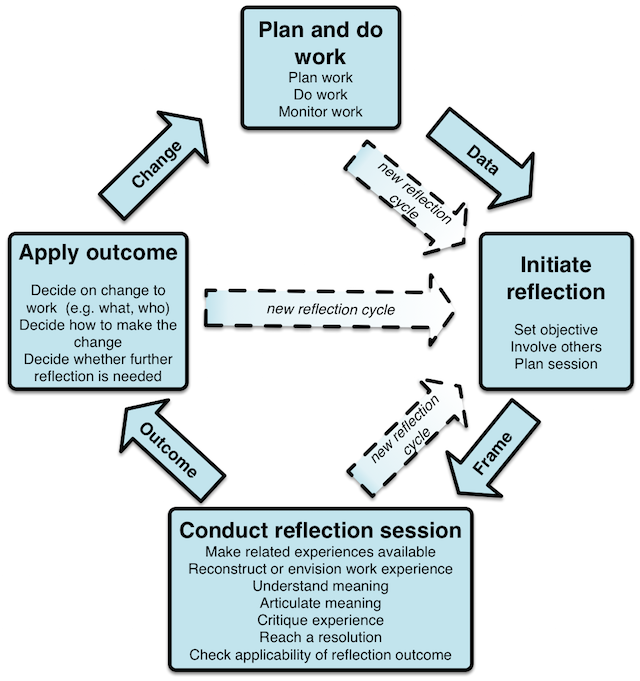
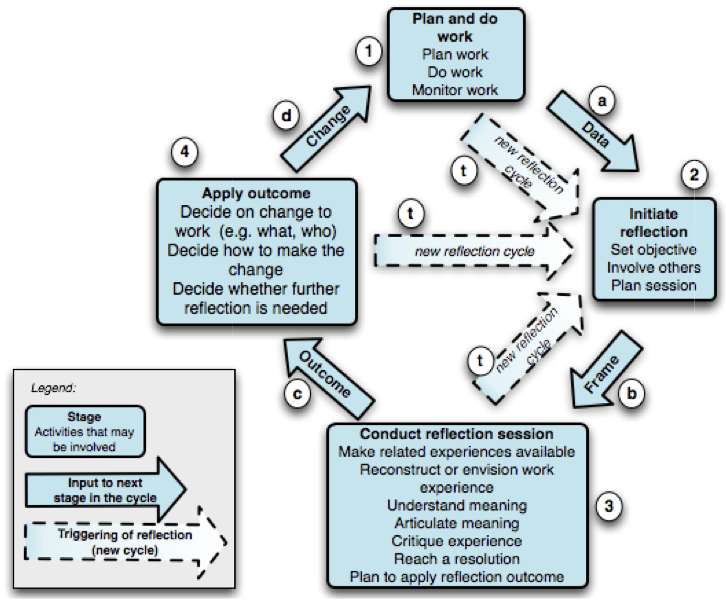
added research chap

diff --git a/csrl.md b/csrl.md
@@ -1,50 +1,50 @@
 
 # Computer Supported Reflective Learning
 
-In order to inform the design of technology to support reflection tools for crisis learning, I employed the Computer Supported Reflective Learning model developed within the MIRROR project. The model has indeed been designed to identify requirement, design and implement technology support for to reflective learning [@Krogstie:2013kf]. The CSRL model has worked as theoretical underpinning for the development of the applications presented in this PhD work, providing a language guiding for the understanding of reflection and requirements for supporting technology.
+In order to inform the design of technology to support reflection tools for crisis learning, I employed the Computer Supported Reflective Learning model developed within the MIRROR project. The model has indeed been designed to identify requirement, to design and implement technology support for to reflective learning [@Krogstie:2013kf]. The CSRL model has worked as theoretical underpinning for the development of applications of technology presented in this PhD work, providing a language guiding for the understanding of reflection and requirements for supporting technology.
 
-In this thesis the CSRL model has driven the development of technology application in P1, P2 and P3
+In this thesis the CSRL model has driven the development of technology in P1, P2 and P3.
 
 After a brief introduction about reflection theory I describe the CSRL model and how it has been applied to the development of  technology for crisis experiential learning. In the following I will use the terms *reflective learning* and *reflection* as synonyms.
 
 ## Reflection theory
 
-Boud [-@boud1985reflection] defines reflective learning as “*a generic term for those intellectual and affective activities in which individuals [...] explore their experiences in order to lead to new understandings and appreciations*”, it is both an individual and collective mental process that turns past experiences into new knowledge. This is also in line with the work of Schön [-@Schon:1983ut] who further distinguish between *reflection-in-action* (or *intra-crisis* in the context of this work) and *reflection-on-action* (*inter-crisis*). Reflection consists in three steps process during which the learner re-evaluate her experiences inspecting behaviours, ideas and feelings; eventually deriving conclusions and lessons learned to that guide future behaviours (Figure x). The process can be iterated multiple times and might influence the learner behaviours only in the long term. 
+Boud [-@boud1985reflection] defines reflective learning as “a generic term for those intellectual and affective activities in which individuals [...] explore their experiences in order to lead to new understandings and appreciations”, it is both an individual and collective mental process that turns past experiences into new knowledge. This is also in line with the work of Schön [-@Schon:1983ut] who further distinguish between *reflection-in-action* (or *intra-crisis* in the context of this work) and *reflection-on-action* (*inter-crisis*). Reflection consists in a three-steps process during which the learner re-evaluate her experiences inspecting behaviours, ideas and feelings; eventually deriving conclusions and lessons learned to that guide future behaviours (Figure x). The process can be iterated multiple times and might influence the learner behaviours only in the long term. 
 
 ![The reflection process according with Boud [-@boud1985reflection]](imgs/boud.png)
 
-A key aspect in making a reflective process to happen is the presence of triggers. Triggers are unexpected situations, for example disturbances and perception of uncertainty; but also positive situation like a surprising success. In general, reflection seems to be triggered by awareness of discrepancy between expectations and the current experience. Reflection might be triggered by an external event or agent (external trigger/accident) or might develop from one’s own thinking of a whole series of occurrences over time (internal trigger). Reflection can occur incidentally or intentionally, but is widely acknowledged that in both cases reflection is a conscious evaluation of an experience. Furthermore people can learn not only from their own experiences, but also from other’s experience by directly or indirectly (for example by observing and reflecting on other’s experiences). 
+A key aspect in making a reflective process to happen is the presence of triggers. Triggers are unexpected situations, for example disturbances and perception of uncertainty; but also positive situation like a surprising success. In general, reflection seems to be triggered by awareness of discrepancy between expectations and the current experience. Reflection might be triggered by an external event or agent (external trigger/accident) or might develop from one’s own thinking of a whole series of occurrences over time (internal trigger). Reflection can occur incidentally or intentionally, but in both cases reflection is a conscious evaluation of an experience. Furthermore people can learn not only from their own experiences, but also from other’s experience by directly or indirectly (for example by observing and reflecting on other’s experiences). 
 
 Similar to the work of Boud, Kolb describes experiential learning as a cyclic process named “the Kolb Cycle” (Figure x). 
 
 ![The Kolb cycle](imgs/kolb.png)
 
-According with Kolb [-@kolb1984experiential] reflection is a process that involves not only reinterpreting existing experiences, but also initial perception and interpretation of the raw experience. A description of other existing theories can be found in [@WoodDaudelin199636].
+According with Kolb [-@kolb1984experiential] reflection is a process that involves not only reinterpreting existing experiences, but also initial perception and interpretation of the raw experience. For a description of other existing theories in reflective learning see [@WoodDaudelin199636].
 
 ## MIRROR Computer Supported Reflective Learning model
 
 Building on the presented work on reflection theory and on empirical studies, the MIRROR project has iteratively developed a model for Computer Supported Reflective Learning (hereafter CSRL model for short). The CSRL model has been designed to identify requirement, design and implement technology support for reflective learning and is detailed in [@Krogstie:2013kf]. It is meant to understand and analyse reflection in the workplace, it suggests how technology can support those activity rather than providing formal guidelines or pre-defined processes.  
 
-Following the work of Boud et al. [-@boud1985reflection] the model considers reflective learning as “*the conscious re-evaluation of experience for the purposes of guiding future behaviour […] as reflection transforms experience from work into knowledge applicable to the challenges of daily work*” [@Krogstie:fo]. The model specifically address reflection in the workplace with *work* and *reflection on action* seen as intertwined activities that have an impact on personal, collaborative and organisational growth. Therefore the model is well suited to address reflection in the crisis domain which in which unexpected adverse events do not allow to schedule clear boundaries between the time to be dedicated to work and to learning.  
+Following the work of Boud et al. [-@boud1985reflection] the model considers reflective learning as “the conscious re-evaluation of experience for the purposes of guiding future behaviour […] as reflection transforms experience from work into knowledge applicable to the challenges of daily work” [@Krogstie:fo]. The model specifically addresses reflection in the workplace with *work* and *reflection on action* seen as intertwined activities that have an impact on personal, collaborative and organisational growth. Therefore the model is well suited to address reflection in the crisis domain which in which unexpected adverse events do not allow to schedule clear boundaries between the time to be dedicated to work and to learning.  
 
-A *reflection section* is a time-limited in which reflection happens; driven by *learning objectives* that might be only partially explicated, leaving rooms for a open-ended *outcome*. Such outcome may include a change in behaviour, new perspectives and commitment for action [@boud1985reflection]. *Participants* of the session might be a single person (individual reflection) or multiple persons (collaborative reflection).
+![CSRL reflection cycle, figure from [@Krogstie:2013kf]](imgs/CSRL.png)
+
+According with the model, a *reflection section* is a time-limited in which reflection happens; driven by *learning objectives* that might be only partially explicated, leaving rooms for a open-ended *outcome*. Such outcome may include a change in behaviour, new perspectives and commitment for action [@boud1985reflection]. *Participants* of the session might be a single person (individual reflection) or multiple persons (collaborative reflection).
 
 The model explains reflective learning as a **cycle** involving fours stages of reflection: (i) do work; (ii) initiate reflection session; (iii) conduct reflection session; and (iv) apply reflection outcomes. For each stage, it specifies relevant sub-steps, specific reflection-useful activities that can be augmented with technology. For example, initiate reflection session includes *decide to reflect* and *frame the reflection session*. 
 
-For each stage, the CSRL model identifies support that can be provided through technology, for example in the do work phase, technology can be used to monitor work and collect data that can be useful for reflection, in initiate reflection session technology can be used to set the objectives for reflection or involve others in the session; in conduct reflection session to share work experiences with others; and in apply reflection outcomes to decide how the change to work will be implemented.
-
-![CSRL reflection cycle, photo from [@Krogstie:2013kf]](imgs/CSRL.png)
-
 Figure x depicts the models in terms of *stages*, *inputs* and *triggers*.  A *stage* includes sub-activities that can be supported with technology, *inputs* are either raw or more or less contextualised data (information) being exchanged among stages; *triggers* are either external events or internal mental processes that initiate a reflection session. Reflection can be triggered during work, while a change is about to be applied or during the reflection session itself. In general, reflection seems to be triggered by awareness of discrepancy between expectations and the current experience. Triggers also allow for including more actors in the reflection cycles, when one reflection cycle triggers new reflection cycles. For instance, the outcome of a personal reflection (e.g. how a crisis procedure is applied) might be brought in a team meeting to trigger collaborative reflection on bring to a change of protocol outcome. In this way, we can look at reflection as a storyline that might involve different actors within the organisation [@PrPK13]. 
+
+For each stage, the CSRL model identifies support that can be provided through technology, for example in the *do work* phase, technology can be used to monitor work and collect data that can be useful for reflection, in *initiate reflection*  technology can be used to set the objectives for reflection or involve others in the session; in *conduct reflection* session to share work experiences with others; and in *apply reflection outcomes* to decide how the change to work will be implemented.
 
 ## CSRL applied to the design of technology
 
 The model can be used by designers to choose which technology to use to support reflection activities or do derive requirements for the design of new technologies [@Krogstie:2013kf]. The model has driven the development of several software and hardware applications within the MIRROR project; to address reflective learning in the fields of social care, health care, business and emergency aid. For a description of the applications see [@Schwantzer:2014we]. Several works [@Krogstie:2013kf; @Krogstie:fo; @Krogstie:2012ki] have shown how the four stages in the model can me mapped against technologies to support individual and collaborative reflection. The mapping can be framed within three macro areas:
   
 - technology to **capture** work experiences (for example by means of automatic sensors, a personal diary application, or timeline visualisation) 
-- technology to **trigger** a reflection session leveraging data captured (for example reminding the user to reflect on a daily basis) 
-- technology to **re-create** work experiences based on data captured to assist a reflection session with relevant information (for example by allowing to re-evaluate a past experiences from multiple point of views) 
+- technology to **re-create** work experiences based on data captured to trigger and assist a reflection session with relevant information (for example by allowing to re-evaluate a past experiences from multiple point of views, in a context that help making sense processes) 
+- technology to **generate** new, realistic work experiences for training purposes (for example via virtual worlds, serious games, or tabletop exercises)  
 
-The three areas have in common the need for interfaces between people and technology. The design of such user interfaces aims at different goals: while during *capturing* the interface need to allow to capture both automatic data and user-submitted information without interrupting crisis work, *triggering* reflection needs and interface which is stimulating for the user; finally *re-creating* experiences need for tools for data visualisation and manipulation capable to re-create a work experience in a context that helps making senses processes thus reflection. 
+The three areas have in common the need for interfaces between people and technology. The design of such user interfaces aims at different goals: while during *capturing* the interface need to allow to capture both automatic data and user-submitted information without interrupting crisis work, *re-creating* experiences need for tools for data visualisation and manipulation capable to re-create a work experience in a context that promote reflection; finally *generating* experiences needs interface to bring realism and engagement or real crises into a simulated environment.  
   
-In the following chapter I will investigate how recent advances in the field of tangible, embodied and embedded interaction can provide theoretical tools and rapid prototyping techniques for the creation of user interfaces for capturing and re-creating work experiences and triggering reflection. 
+In the following chapter I will investigate how recent advances in the field of tangible, embodied and embedded interaction can provide theoretical tools from human-computer interaction theory and rapid prototyping techniques for the creation of user interfaces for capturing, re-creating and generating experiences.

diff --git a/crisis.md b/crisis.md
@@ -6,11 +6,14 @@ In this section, I provide a brief introduction to the field of crisis managemen
 
 The terms *crisis*, *emergency* and *disaster* are often used as synonyms. As pointed out by [@Boin:2007wt] and [@hewit] they deal with events that belong in the “un-ness” category: unexpected, undesirable, unimaginable, and often unmanageable situations. 
 
-We can refer to *crisis* as an event that is expected to lead to a dangerous situation, whether it’s an emergency or a disaster. While an *emergency* is a episode that requires immediate attention, but usually on a small scale, it can turn in a *disaster* if left unattended. For example high rainfall could lead to several emergencies (e.g. car crashes, flooded bridges) and might eventually turn in a disaster (e.g. a massive flooding or an hurricane). Disaster can be caused by nature or human-made and show or not show early signals that allow the disaster to be avoided. Over the last 35 years, the frequency of disasters has increased five-fold and the damage caused has multiplied by approximately eight times [@union:Mz-lFgLc]. 
+We can refer to *crisis* as an event that is expected to lead to a dangerous situation, whether it’s an emergency or a disaster. While an *emergency* is a episode that requires immediate attention, but usually on a small scale, it can turn in a *disaster* if left unattended. For example high rainfall could lead to several emergencies (e.g. car crashes, flooded bridges) and might eventually turn in a disaster (e.g. a massive flooding or an hurricane). Disaster can be caused by nature or human-made and show or not show early signals that allow the disaster to be avoided. Over the last 35 years, the frequency of disasters has increased five-fold and the damage caused has multiplied by approximately eight times [^eudisaster].
 
-Yet, although disasters are getting more frequent, people’s capacity of dealing with adverse events is also growing [@Boin:2009bv] and this is thanks to the advances in crisis preparedness and management, which are a priority for many countries, including the European ones [@union:Mz-lFgLc].   
+[^eudisaster]: “Council adopts new Union Civil Protection
+Mechanism” Available at: www.consilium.europa.eu/uedocs/cmsdata/docs/pressdata/en/jha/140108.pdf.
 
-Crisis management is a complex, inter-organisational activity to provide help to the persons in need during a crisis. Examples of roles and activities typical of crisis management are police forces to constrain access to a disaster scene, firefighters to explore and map undisclosed areas, paramedics to activate triage and hospitalise injured, fellow citizen to report information and stay out of dangers. Crisis management requires coordination on multiple levels, from team leaders (intra-organisation) up to disaster managers (inter-organisation).    
+Yet, although disasters are getting more frequent, people’s capacity of dealing with adverse events is also growing [@Boin:2009bv] and this is thanks to the advances in crisis preparedness and management, which are a priority for many countries, including the European ones [^eudisaster].   
+
+Crisis management is a complex, inter-organisational activity to provide help to the persons in need during crises. Examples of roles and activities typical of crisis management are police forces to constrain access to a disaster scene, firefighters to explore and map undisclosed areas, paramedics to activate triage and hospitalise injured, fellow citizen to report information and stay out of dangers. Crisis management requires coordination on multiple levels, from team leaders (intra-organisation) up to disaster managers (inter-organisation).    
 
 Meanwhile crisis management is activated only when a crisis occurs, crisis preparedness is a continuos process aiming at improving crisis management practices using training activities to induce learning outcomes. Crisis-induced learning (hereafter crisis learning) focuses on two main activities, both essential for organisational resilience: *prevention* and *response* [@Deverell:2009fk], in order to
 (i) prevent a crisis from happening, ~~with risk mitigation activities, monitoring the environment and raising awareness in the population~~
@@ -26,11 +29,9 @@ Learning by experience and lesson drawing are still quite unexplored areas of cr
 
 ### Learning by experience
 
-Experiences from real and simulated crises can be used as triggers to achieve organisational learning [@Deverell:2009fk]. Organisational learning may occur “when experience systematically alter behaviour or knowledge” [@Schwab:2007iw, p.233]; as an effort to gain knowledge from the past (e.g. an earlier crisis exercise) and use it when managing a new crisis, to correct previous mistakes [@Larsson:2010jr]. As stated by Hillyard [-@Hillyard:SYlJRQLN], organisational learning is one of the basic objective of crisis management, which is to accumulated wisdom by “learning together from the event in order to prevent, lessen the severity of, or improve upon responses to future crises”.
+Experiences from real and simulated crises can be used as triggers to achieve organisational learning [@Deverell:2009fk]. Organisational learning may occur “when experience systematically alter behaviour or knowledge” [@Schwab:2007iw, p.233]; as an effort to gain knowledge from the past (e.g. an earlier crisis exercise) and use it when managing a new crisis, to correct previous mistakes [@Larsson:2010jr]. As stated by Hillyard [-@Hillyard:SYlJRQLN], organisational learning is one of the basic objective of crisis management, which is to accumulated wisdom by “learning together from the event in order to prevent, lessen the severity of, or improve upon responses to future crises”. In CM the correct action to take often can only be derived from experience. e.g. handling of the events in similar situations.
 
-In CM the correct action to take often can only be derived from experience. e.g. handling of the events in similar situations
-
-Yet, how work experiences during crisis work can produce a learning outcome? And what are those learning outcomes?
+Yet, how work experiences during crises can produce a learning outcome? And what are those learning outcomes?
 
 First off learning from crises is not an easy job. While learning during the work, or *intra-crisis*, is very difficult due to time pressure, stress and demands for rapid action [@Deverell:2009fk] and because learning is typically a retrospective exercise [@jasanoff1994learning]; *inter-crisis* learning is also challenging. Moynihan [-@Moynihan:2008gq] identify ten barriers to effective crisis learning. Among those the high consequentiality of crises makes experiential learning costly [@LaPorte:1991gk], moreover the specificity of each crisis event makes hard to apply learning outcomes from one crisis to another.
 
@@ -38,9 +39,9 @@ Yet crises also offer learning opportunities, “Experience from previous events
 
 ### Debriefing as a tool for learning from experiences		 
 
-In order to turn experiences into knowledge [correct?] debriefing after real or simulated crisis-work offers important learning opportunities [@Boin:2007wt]. Debriefing involves “reviewing a difficult episode from a constructive point of view  … the goal is to extract fundamental lessons learned from the ay the event was handled” [@Lagadec:1997js]. It is a collaborative activity involving multiple roles. 
+In order to turn experiences into knowledge debriefing after real or simulated crisis-work offers important learning opportunities [@Boin:2007wt]. Debriefing involves “reviewing a difficult episode from a constructive point of view  … the goal is to extract fundamental lessons learned from the way the event was handled” [@Lagadec:1997js]. It is a collaborative activity involving multiple roles. 
 
-A outlined by Boud et al. [-@boud1985reflection] debriefing is a form of collaborative reflection.. During debriefings, a re-evaluation of experience takes place, with explicit attention to emotions, ideas and behaviours. 
+A outlined by Boud et al. [-@boud1985reflection] debriefing is a form of collaborative reflection. During debriefings, a re-evaluation of experience takes place, with explicit attention to emotions, ideas and behaviours. 
 
 The outcome which debriefing seeks to obtain is lesson drawing. Previous work experiences provide a good source of lesson-drawing which may potentially affect managing, planning and training for future crises. Yet lessons-drawing is often one of the most neglected aspects of crisis management [@Lagadec:1997js; @Stern:1997eb]. Studies [@Lagadec:1997js] has show that the introduction of debriefings meet resistance. This might be due to lack of commitment but also to barriers like costs, lack of data to feed the debriefing, lack of tools to provide meaningful visualisation or to recreate a work experience. In the following I describe out technology can help in lowering those barriers.
 
@@ -48,4 +49,6 @@ The outcome which debriefing seeks to obtain is lesson drawing. Previous work ex
 
 Technology can provide support to experiential learning in many ways. For example it can be used to capture a work experience, to simulate or re-create a specific crisis, to provide support to coordination, for data collection or to assist debriefings. The common denominator is that technology can add realism to exercises, in order to re-create experiences that are as close as possible to real crisis, and allow trainees to experience emotions (e.g. stress) of a similar nature and intensity as the ones experience under a real emergency [@MacKinnon:2012wz]. Adding realism to the training experience is recognised to be a key for achieving learning outcomes [@Asproth:2013vs].  
 
-In this thesis I focus on using technology for (i) capturing work experiences and (ii) leveraging the captured data to re-create those experiences for debriefing purposes. Being debriefing a form of collaborative reflection [@boud1985reflection] I adopted the MIRROR CSRL model [@Krogstie:2013kf] as a framework to drive the design of computer interfaces and the MIRROR toolbox for evaluation purposes [@Knipfer:2012vi]. 
+In this thesis I focus on using technology to (i) capture work experiences from multiple point of views, (ii) re-create those experiences for debriefing purposes using the data captured, (iii) generated new work experiences for training purposes. In order to ground the design of technology into theory on reflective learning I adopted the MIRROR CSRL model [@Krogstie:2013kf] and the MIRROR toolbox [@Knipfer:2012vi] to evaluate the learning outcomes produced. 
+
+In the next chapter I provide a brief introduction on reflective learning and the model used as theoretical underpinning for the technology contributions of this thesis.

diff --git a/interaction.md b/interaction.md
@@ -1,0 +1,27 @@
+# Sensing-based interaction for supporting reflection
+
+The design of systems to support reflection on crisis work experiences benefits from research in the field of sensing-based interaction [@Benford:2005bo],  as a paradigm to design user interfaces which are embodied [@Fishkin:2000df] and tangible [@Shaer:2009fx]. 
+
+According with Rogers and Muller [-@Rogers:2006te] sensing-based interaction allows for designing systems capable to deliver relevant information at appropriate times, which is critical to trigger and sustain reflection; and to enable “hands-free control”, which is critical for capturing data in action. 
+
+## Sensing and embodied interfaces
+
+Recent advances in sensor technology enable the creation of interfaces that actively respond to users’ behaviours [@Benford:2005bo]. Computation is ubiquitously getting embedded and thus *embodied* in physical interactive objects, allowing the object to become integral part of interaction and using its body as an interface.
+
+Embodied interaction, as defined by Dourish [@Dourish:2001vc], is a collection of a number of recent trends emerged in the Human-Computer interaction (HCI) field, relying on the common ground to provide a natural, native user interaction with information. Embodied interaction makes an enormous shift in the user interaction paradigm. Moving from time to space, it takes the interaction “off the screen” into the real world [@Dourish:2001vc], distributing input in space instead of time, de-sequentializing interaction and reducing the gap between where the information is created where it is accessed. “By treating the body of the device as part of the user interface —an embodied user interface— we can go beyond the manipulation of a GUI and allow the user to really directly manipulate an integrated physical-virtual device.” [@Fishkin:2000df]  
+
+
+Implementations of the embodied interaction paradigm are, for examples, the so-called tangible user interfaces (TUIs). 
+
+Unlike GUIs, which manipulate elements virtually on-screen with the aid of the keyboard and mouse, TUIs integrates both representation and control of computation into physical artifacts [@krumm2009ubiquitous]. This approach allows system designers to be free to experiment with new type of metaphors, take advantage of the users physical skills and provide interfaces which exploit people’s knowledge and skills with the everyday, non-digital, world [@Jacob:2008vm]. Since the ways the manipulation of physical media profoundly differs from the manipulation of digital media [@Terrenghi:2007uv], metaphors adopted for the digital world need to be redesigned to meet physical affordances. A well-established field of research on TUIs is carried out by Hiroshi Ishii and colleagues at the MIT Media Lab, the aim of their project “Tangible Bits” is to make bits directly accessible using the real word objects as medium for interaction [@Ishii:1997ur].
+
+Designing for embodied interaction it’s not just distributing the computation into the physical space, but it also entails moving from a sequential to a continuous interaction paradigm, shifting computers from a localized tool to a constant presence [@Abowd:2000jn]; hence having to deal with interruption and resumption of interaction, which is awkward when activities don’t have a clear start and end. Being the user-time a precious and constrained resource, information systems should require the full attention of the user only when needed. Today both desktop and mobile interfaces provide simple awareness cues by adding badges to icons showing for example the number of unread mails or number of agenda items. This approach still requires the user to focus her attention on a screen, even when not strictly necessary. A major shift in user interaction is to design interaction not just for the foreground but also for the background of user’s attention or, as defined by Mark Weiser, “design for the periphery” [@Weiser:1996vo].
+
+According to Weiser [@Weiser:1996vo] design for the periphery is about calmly informing the user about background processes exploiting the cognitive ability of the human brain to focus on one foreground activity while monitoring changing data with subconscious processes; for example as we are aware of movements of people in a room without staring to them, the weather or the time of the day. A technology can be defined “calm” when it easily moves from the periphery of our attention, to the center, and back to the background only when needed, without overburdening the user. The work of Ishii and Ullmer’s research, described in [@Ishii:2008fh], takes steps towards Weiser’s vision defining foreground interaction as mediated by physical interfaces: graspable objects and augmented surfaces; while background interaction is mediated by ambient light, sounds and air. For example the ambientROOM project [@Ishii:1998:AIA:286498.286652] has prototyped a workspace where information such as notification of number of accesses to a webpage, weather or work activities are embedded in objects which notifies the users by changes in light colors, haptic feedbacks and sounds; for instance by reproducing sound of heavy rain in case of high number of access to a webpage. An important challenge tackled by ambientROOM is about how to give to information belonging to the digital domain an embodiment the user can recognize and link back to the digital source.
+
+## Wearable computing, Augmented Reality and Token-based interaction
+
+## Rapid prototyping, tools and techniques adopted
+### Software prototyping 
+### Hardware prototyping
+### System integration and the cloud

diff --git a/introduction.md b/introduction.md
@@ -9,7 +9,7 @@ Learning from experiences entails reflection [@boud1985reflection; @Dewey:1998ug
 
 In the context of crisis training, technology support for the reflective learning cycle addresses two activities: (i) *capturing work experiences* (ii) *re-creating work experiences*. While *capturing work experiences* is done *in-action*, *re-creating work experience* allow for initiating and sustaining a reflection session *on-action*. Technology provides help in different ways. Sensors can capture aspects of work experiences; data which can be visualised on a computer interface to provide triggers for re-evaluating an experience towards a learning outcome, or that can be used to plan new training work. Yet current technology tools don’t consider the very particular, situated nature of crisis work. While data capturing tools lack of interaction paradigms suitable to be used in-action, interfaces to visualise and manipulate data for reflection purposes struggle in providing the users with context information needed to ground the reflection process towards a learning outcome. 
 
-Theory in the field of tangible, embodied and embedded interaction [@Dourish:2001vc] can inform the design of technologies to better assist reflection processes for crisis training. Tangible and embodied user interfaces are a recent trend in HCI aiming at enabling interaction with digital information exploiting the affordances that everyday objects provide, rather than traditional input devices such as keyboard, mouse or touchscreens. Using sensor-based technology, conventional object can be augmented and turned in “physical handles” to digital operations [@Ishii:1997ur], linking their traditional affordances to new digital meanings. Embodied interaction techniques can be implemented in computer interfaces to allow *capturing work experiences* disrupting as little as possible the rescue work and to *re-create work experiences* which are grounded in a physical context and characterised by engaging, playful interaction with digital information.
+Theory in the field of tangible, embodied and embedded interaction [@Dourish:2001vc] can inform the design of technologies to better assist reflection processes for crisis training. Tangible and embodied user interfaces are a recent trend in HCI aiming at enabling interaction with digital information exploiting the affordances that everyday objects provide, rather than traditional input devices such as keyboard, mouse or touchscreens. Using sensor-based technology, conventional object can be augmented and turned in “physical handles” to digital operations [@Ishii:1997ur], linking their traditional affordances to new digital meanings. Embodied interaction techniques can be implemented in computer interfaces to allow *capturing work experiences* disrupting as little as possible the rescue work, to *re-create work experiences* in a physical context for debriefing purposes and to *generate new work experiences* for continuous training characterised by engaging, playful interaction and reduced cost compared to traditional physical simulations.
 
 [^mirror]: MIRROR Project - http://www.mirror-project.eu
   
@@ -58,3 +58,5 @@ During the PhD I was a visiting researcher in two foreign institutions: City Lon
 During fourteen weeks spent at City University (also partner of MIRROR) I investigated the design and production of a digitally augmented serious game for better training of dementia carers, under the supervision of professor Neil Maiden. The game has been implemented and evaluated in eight care homes in the greater London area, and is reported in a joined publication [submitted] at CHI2015.
 
 During twelve weeks spent at the MIT SENSEable City Lab I investigated the design and production of a tangible interface to promote user engagement and reflection about urban-mobility data under the supervision of professor Carlo Ratti. The work has been has been displayed to the public in two exhibitions: “Wave”  currently held in Paris and “CNR Internet Festival” held in Pisa, Italy.
+
+TTO, Discovery

diff --git a/Abstract.md b/Abstract.md
@@ -7,5 +7,5 @@
 
 *Method:* To this aim an exhaustive set of user studies, hardware and software prototyping iterations and tools evaluations in crisis drills have been conducted. User studies allowed the author to gain an understanding of the crisis domain, prototypes allowed to discuss early to late design ideas to meet the need of end users, evaluations provided validated the results accomplished. Studies were arranged in cooperation with partners of the EU funded MIRROR project. Software and hardware rapid prototyping techniques, opens source tools and digital manufacturing have been extensively used. New application domain for the use of the technology developed have been investigated during academic visits at City London University and MIT. Commercial exploitation for the results from research are being discussed.
 
-*Contributions:* The resulting contributions, targeting the HCI and ISCRAM communities, include an understanding of challenges for designing, implementing and evaluating technology for the crisis sector. This contribution has driven the design and development of prototypes for data collection in-action and can aid crisis organisations and ICT companies to develop future applications. The main contribution of this PhD work is a suite of applications to comprehensively address experience-based learning. Target users are field workers and disaster managers. The design draws from user studies, and a comprehensive analysis of the state of the art. During crisis training events field workers are empowered for capturing work experiences by “WATCHiT”, a wearable computer featuring a distraction-free embodied user interface and sensor modules. Later during debriefings, experiences are visualised and reviewed by disaster managers in-situ using “CroMAR”, augmented reality interaction with multiple data sources, exploiting the physical space for contextualising the reflection process. Furthermore work experiences can be recreated for continuous training with “Don’t Panic” which employs gamification and technology-augmented game pieces to teach soft skills, and by “Trainer” a mobile app for rescue protocol training. Together the four applications bring a new approach to traditional learning for the crisis domain.
+*Contributions:* The resulting contributions, targeting the HCI and ISCRAM communities, include an understanding of challenges for designing, implementing and evaluating technology for the crisis sector. This contribution has driven the design and development of prototypes for data collection in-action and can aid crisis organisations and ICT companies to develop future applications. The main contribution of this PhD work is a suite of applications to comprehensively address experience-based learning. Target users are field workers and disaster managers. The design draws from user studies, and a comprehensive analysis of the state of the art. During crisis training events field workers are empowered for *capturing* work experiences by “WATCHiT”, a wearable computer featuring a distraction-free embodied user interface and sensor modules. Later during debriefings, experiences are *re-created* in-situ using “CroMAR”, which features augmented reality interaction and allows for exploiting the physical space for contextualising the reflection process. Furthermore new, realistic work experiences can be *generated* for continuous training with “Don’t Panic” which employs gamification and technology-augmented game pieces to teach soft skills, and by “Trainer” a mobile app for rescue protocol training. Together the four applications bring a new approach to experiential learning for the crisis domain.
 

diff --git a/research.md b/research.md
@@ -1,0 +1,33 @@
+# Research approach and process
+
+based on ISCRAM literature review and user studies, I didn’t know the crisis domain
+
+user studies methods: observations, interviews, surveys, focus groups
+
+tools used during user studies
+
+current methods hardily applicable: cannot observe real emergencies, prototypes must robust, hard to have access to users, different roles and politics
+
+empirical study?
+
+multiple iterations
+
+bring in tools within learning and hci with a strong focus on rapid prototyping
+
+Frequent exchanges of view within MIRROR and with research visits in top level uni
+
+research activities:
+* literature review
+* user studies
+* design
+* hw/sw prototypes development
+* evaluations
+* dissemination of research
+* commercialisation of results
+* project meetings and management
+
+Timeline of research activities
+
+Timeline of user studies
+
+Table mapping user studies with RQs and Papers

diff --git a/abbreviations.md b/abbreviations.md
@@ -1,8 +1,10 @@
-#Glossary
+#Abbreviations
 
 CSRL Computer Supported Reflective Learning
 
 TEI Tangible Embodied Interaction
+
+HCI Human Computer Interaction
 
 Disaster
 
